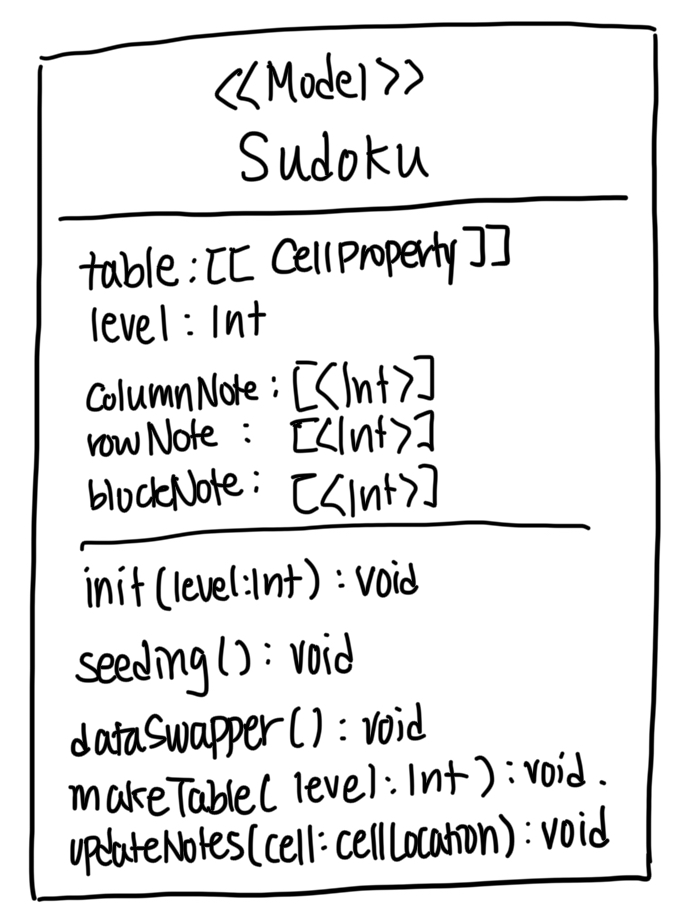
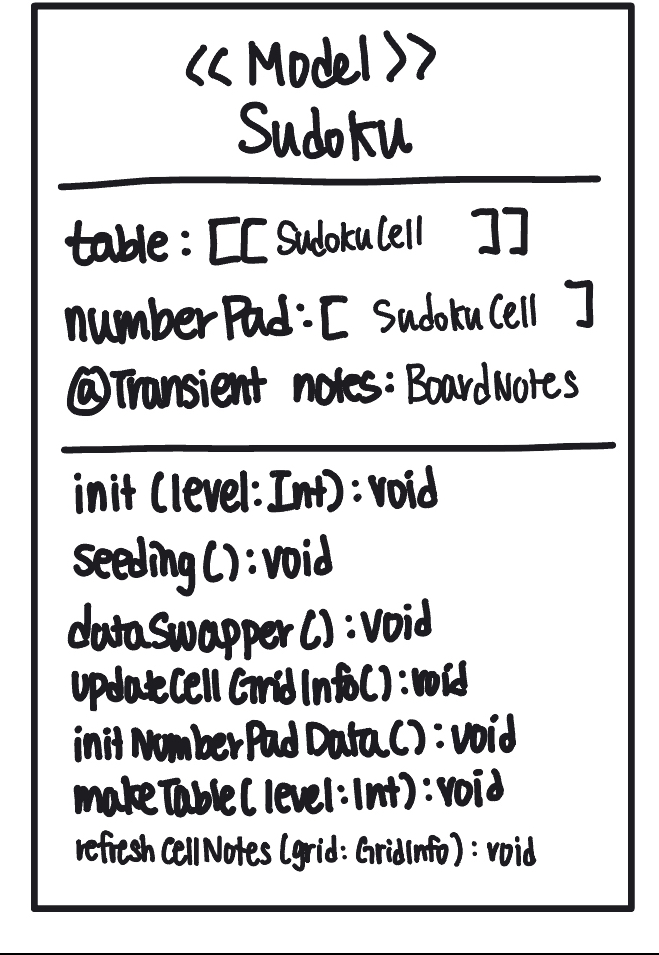
doc: Updated in-line documentation for BoardNotes, Sudoku, and SudokucCell. Updated UI document for UML with pictures and descriptions

Changed region(s): [[0.0303, 0.0, 0.9712, 1.0], [0.8498, 0.2733, 0.9105, 0.3644]]

diff --git a/Sudoku/Model/Sudoku.swift b/Sudoku/Model/Sudoku.swift
@@ -13,6 +13,8 @@ import SwiftData
 ///     - board: a GridInfo of the selected cell's position on the 9×9 board (row, col)
 ///     - block: a GridInfo of the selected cell's position inside its 3×3 block (blockRow, blockCol)
 ///     - cell: a GridInfo of the selected cell's position inside its 3×3 block cell (0...2, 0...2)
+/// - Methods:
+///     - `init()` : set each parameter to its respective `GridInfo`
 struct CellPosition: Codable {
     var board: GridInfo
     var block: GridInfo
@@ -25,33 +27,31 @@ struct CellPosition: Codable {
     }
 }
 
-/// A matrix of CellProperties conforming to data on a sudoku board
+/// A matrix of SudokuCell conforming to data on a sudoku board
 /// - Parameters:
-///     - table: a 9x9 matrix of CellProperties.
+///     - table: a 9x9 matrix of SudokuCell.
 struct Data {
     var table: [[SudokuCell]]
 }
 
 /// A SwiftData model representing a Sudoku puzzle.
 /// - Parameters:
-///     - table: Array variable containing a 9x9 matrix of CellProperty equal to 0.
-///     - numberPad: Array of CellProperty length 9
-///     - level: initial integer set to 0, will change as levels change
-///     - colNote: An array containing sets of integers with length 9
-///     - rowNote: An array containing sets of integers with length 9
-///     - blockNote: An array containing sets of integers with length 9
+///     - notes(@Transient): `BoardNotes` type initialized to 9 empty sets.
+///     - table: a 9x9 matrix of `SudokuCell`s creating the table
+///     - numberPad: an array of `SudokuCell`s creating the number pad.
 ///
 /// - Methods:
-///     - `init()`: calls seeding(), dataSwapper(), updateCellGridInfo(), makeTable(), and print table
+///     - `init()`: calls seeding(), dataSwapper(), updateCellGridInfo(), makeTable(),
+///        print table, and initNumberPad().
 ///     -  `seeding()` — builds a fully solved 9×9 grid by shuffling digits and laying them out with a
 ///        base pattern.
-///     - `dataSwapper()` — randomizes the solved grid by swapping rows within bands and columns within
-///        stacks while preserving validity.
-///     - `updateCellGridInfo()` — writes board/block/cell coordinates into each `CellProperty.position`.
-///     - `makeTable(level:)` — hides a fixed number of cells (currently 30) to produce a playable
+///     - `dataSwapper()` — randomizes the solved grid by swapping rows within bands and columns
+///        within stacks while preserving validity.
+///     - `updateCellGridInfo()` — writes board/block/cell coordinates into each `GridInfo`.
+///     - `makeTable(level:Int)` — hides a fixed number of cells based on level  to produce a playable
 ///        puzzle and derives initial notes.
-///     -  `print(table)` — dumps the backing 2D array for debugging.
 ///     - `initNumberPadData()` — populates the keypad model with values 1…9.
+///     - `refreshCellNotes(grid:GridInfo)` — reevalutates note values after actions.
 @Model
 class Sudoku {
     @Transient
@@ -93,7 +93,6 @@ class Sudoku {
     ///     - First, shuffle dice.
     ///     - Second, create a 9x9 table with 0s
     ///     - Third, fill out each row with valueIndex as calculated below
-    ///     - Fourth, randomize rows and columns with sudokuDataSwapper
     func seeding() {
         var seed: Int = 0
         var dice: [Int] = [1, 2, 3, 4, 5, 6, 7, 8, 9]
@@ -145,7 +144,7 @@ class Sudoku {
 
     }
 
-    /// Function that computes and assigns board, block, and in-block cell coordinates for every cell.
+    /// Function that computes and assigns board, block, and cell coordinates for every cell.
     ///  - Logic:
     ///     - For every cell, update the GridInfo.
     ///         - For board, just update row and column
@@ -195,8 +194,14 @@ class Sudoku {
         }
     }
 
-    /// Function that removes a certain nuber of entries
-    ///
+    /// Functiont that turns visibility off for random cells and updates and refreshes notes
+    /// according to that visibility.
+    ///  - Parameters:
+    ///     - level: an integer corresponding to the number of blank cells
+    ///     according to each level.
+    ///  - Logic:
+    ///     - Randomly decides on a row and column and turns off visibility for
+    ///     that cell. Updates and refreshes notes according to this.
     func makeTable(level: Int) {
         var noteCounter = level
 
@@ -215,6 +220,13 @@ class Sudoku {
         }
     }
 
+    /// Function that refreshes each and every cell note according to updates on BoardNotes
+    /// and SudokuCell's notes update.
+    /// - Parameters:
+    ///     - grid: A GridInfo that provides the function with the cell's row and column info
+    /// - Logic:
+    ///     - Calculate block's location, then use `SudokuCell`'s `updateNote()` function
+    ///     to refresh and reprint each cell note.
     func refreshCellNotes(grid: GridInfo) {
         let row = grid.row
         let col = grid.col
@@ -223,15 +235,17 @@ class Sudoku {
         let blockCol = ((col / 3) * 3)
 
         for index in 0...8 {
+            // updating each cell's note in its column
             table[index][col].updateNote(
                 boardNotes: notes,
                 isVisible: table[index][col].visible
             )
+            // updating each cell's note in its row
             table[row][index].updateNote(
                 boardNotes: notes,
                 isVisible: table[row][index].visible
             )
-
+            // updating each cell's note in its block
             table[blockRow + (index / 3)][blockCol + (index % 3)]
                 .updateNote(
                     boardNotes: notes,

diff --git a/Sudoku/Model/SudokuCell.swift b/Sudoku/Model/SudokuCell.swift
@@ -17,21 +17,21 @@ struct GridInfo: Codable {
     let col: Int
 }
 
-/// All the properties of a cell.
+/// All the properties of a cell as well as updating its note.
 /// - Parameters:
-///     - position: CellPosition
-///     - visible: Boolean value conforming to showing the content of a cell
-///     - value: Integer value contained inside the cell
-///     - select: Boolean value conforming to if cell is selected or not
-///     - note: Set of integers containing all the numbers in a cell's note
+///     - value: the cell's own value, as an integer
+///     - visible: Boolean value for its visibility
+///     - position: CellPosition that represents its position on the board
+///     - note: A set of integers containing possible candidates for its cell
+///     if the visibility is off
+///     - select: Boolean value representing if the cell's selected or not
 /// - Methods:
-///     - `init()` : Sets parameters to
-///         - `position` =  A new CellPosition
-///         - `visible` = `true`
-///         - `value` = 0
-///         - `select` = `false`
-///         - `note` = Empty `set` of integers
-///     - `==` : compares rows' and columns' CellProperties to each other
+///     - `init()` : Sets its value to its own value
+///     - `selectCell()`: Automatically sets a cell's visbility to true when there's only one candidate
+///     left in the cell's note
+///     -`updateNote()`: shows the intersection of the cell's boardNotes if visibility is false for the cell's
+///     value, and empties the note if visibility is true.
+///     - `==` : compares rows' and columns' SudokuCells to each other
 class SudokuCell: Codable {
     var value: Int = 0
     var visible: Bool = true
@@ -43,12 +43,21 @@ class SudokuCell: Codable {
         self.value = value
     }
 
+    /// Funtion that automatically shows the value when there's only one candidate left in the cell's note.
     func selectCell() {
         if note.count == 1 {
             visible = true
         }
     }
 
+    /// Function that updates the cell's note according to the cell's visibility.
+    /// - Parameters:
+    ///     - boardNotes: A collection of all the invisible cell's value for its row, column, and block.
+    ///     - isVisible: Boolean representing if cell's value is visible or not
+    /// - Logic:
+    ///     - If the cell's visibiility is true, empty all values in the note if it is not empty.
+    ///     - If the cell's visibility is false, retrieve the intersection of all the row, column, and blocks'
+    ///     sets when none of the sets are empty.
     func updateNote(boardNotes: BoardNotes, isVisible: Bool) {
         let row = position.board.row
         let col = position.board.col

diff --git a/Sudoku/Model/BoardNotes.swift b/Sudoku/Model/BoardNotes.swift
@@ -7,6 +7,24 @@
 
 import Foundation
 
+/// Class that contains potential number candidates
+/// for the cell divided by column, row, and block.
+///
+/// - Parameters:
+///     - col: An array of sets of integers conforming to number
+///     candidates for a certain cell based on its column
+///     - row: An array of sets of integers conforming to number
+///     candidates for a certain cell based on its row
+///     - block: An array of sets of integers conforming to number
+///     candidates for a certain cell based on its block
+///
+/// - Methods:
+///     - `init(col: [Set<Int>], row: [Set<Int>], block: [Set<Int>])`
+///         - Parameters: col, row, block of type `[Set<Int>]`
+///         - Function: Sets each parameter to its respective array
+///     - `updateNotes(position: CellPosition, value:Int)`
+///         - Parameters: data of type `SudokuCell`
+///         - Function: Checks if cell is visible and update its notes accordingly.
 class BoardNotes: Codable {
     var col: [Set<Int>]
     var row: [Set<Int>]
@@ -17,7 +35,14 @@ class BoardNotes: Codable {
         self.row = row
         self.block = block
     }
-
+    /// Function for updating notes based on the cell's visibility.
+    /// - Parameters:
+    ///     - data: selected cell of type `SudokuCell`
+    /// - Logic:
+    ///     - If `data` is visible, remove its value from all
+    ///     of its row, column, and block `BoardNotes`.
+    ///     - If `data` is not visible, insert its value to all
+    ///     of its row, column, and block `BoardNotes`.
     func updateNotes(data: SudokuCell) {
         let position = data.position.board
 

diff --git a/Sudoku/Documentation.docc/UI Specification Document.md b/Sudoku/Documentation.docc/UI Specification Document.md
@@ -407,7 +407,7 @@ showScoreView: Boolean, default set to false
     - Parameters: to (temporaray string), duration: 3(TimeInterval)
     - Action: Set scoreText to temporary string, use DispatchQueue to asyncAfter duration (seconds) and change back to default("Score")
 
-![GameBoardView UML 8.2](UML_updated)
+![GameBoardView UML 8.2](UML_Overview)
 
 *(Fig. 8.2) Sudoku Board UML Design Overview*
 
@@ -420,56 +420,82 @@ showScoreView: Boolean, default set to false
 Sudoku(Class)
 - Wrapped by @Model class wrapper
 - Contains the following properties:
-    - `table: [[CellProperty]]`
-    - `level: Int`
-    - `columnNote: [<Int>]`
-    - `rowNote: [<Int>]`
-    - `blockNote: [<Int>]`
+    - `notes` (@Transient): `BoardNotes` - Initialized to 9 empty sets.
+    - `table: [[SudokuCell]]` - 9x9 matrix
+    - `numberPad: [SudokuCell]` - An array of 9 SudokuCells, creates number pad.
 - Contains the following methods:
-    - `init(level:Int): void`
-    - `seeding(): void`
-    - `dataSwapper(): void`
-    - `makeTable(level:Int): void`
-    - `updateNotes(cell:cellLocation): void`
+    - `init(level:Int): void` - calls seeding(), dataSwapper(), updateCellGridInfo(), makeTable(),
+    print table, and initNumberPad()
+    - `seeding(): void` - builds a fully solved 9x9 grid
+    - `dataSwapper(): void` - randomizes solved grid based on `seeding()` by swapping rows, columns,
+    and blocks.
+    - `updateCellGridInfo(): void` - input GridInfo for each cell
+    - `makeTable(level:Int): void` - hides a number of cells based on level to produce a puzzle
+    - `initNumberPadData(): void` - populates keyboard pad from values 1~9
+    - `refreshCellNotes(grid:GridInfo)` - reevaluates note values after actions
 
 ![GameBoardView UML 8.2.2](UML2)
-
-*(Fig. 8.2.2) CellLocation Struct UML Design*
-
-CellLocation(Struct)
-- Contains the following properties:
-    - `board: Grid`
-    - `block: Grid`
-    - `cell: Grid`
-
-![GameBoardView UML 8.2.3](UML3)
-
-*(Fig. 8.2.2) CellProperty Struct UML Design*
-
-CellProperty(Struct)
-- Contains the following properties:
-    - `location: CellLocation`
-    - `visible: Bool`
-    - `value: Int`
-    - `select: Bool`
-    - `note: <Int>`
-
-![GameBoardView UML 8.2.4](UML4)
-
-*(Fig. 8.2.2) Grid Struct UML Design*
-
-Grid(Struct)
-- Contains the following properties:
-    - `row: Int`
-    - `column: Int`
-
-![GameBoardView UML 8.2.5](UML5)
 
 *(Fig. 8.2.2) Data Struct UML Design*
 
 Data(Struct)
 - Contains the following properties:
-    - `table: [[CellProperty]]`
+    - `table: [[SudokuCell]]`
+
+![GameBoardView UML 8.2.3](UML3)
+
+*(Fig. 8.2.3) GridInfo Struct UML Design*
+
+GridInfo(Struct)
+- Contains the following properties:
+    - `row: Int`
+    - `column: Int`
+
+![GameBoardView UML 8.2.4](UML4)
+
+*(Fig. 8.2.4) CellPosition Struct UML Design*
+
+CellPosition(Struct)
+- Contains the following properties:
+    - `board: Grid`
+    - `block: Grid`
+    - `cell: Grid`
+- Contains the following methods:
+    - `init(): void` - sets board, block, cell's GridInfo to 0
+
+![GameBoardView UML 8.2.5](UML5)
+
+*(Fig. 8.2.5) Data Struct UML Design*
+
+BoardNotes(Class)
+- Contains the following properties:
+    - `column: [Set<Int>]`
+    - `row: [Set<Int>]`
+    - `block: [Set<Int>]`
+- Contains the following methods:
+    - `init(col:[Set<Int>], row: [Set<Int>], block: [Set<Int>]): void` - sets column,
+    row, and block to its respective array
+    - `updateNotes(position: CellPosition, value: Int): void` - checks if cell is visible
+    and update its notes accordingly
+
+![GameBoardView UML 8.2.6](UML6)
+
+*(Fig. 8.2.6) SudokuCell Class UML Design*
+
+SudokuCell(Class)
+- Contains the following properties:
+    - `value: Int`
+    - `visible: Bool`
+    - `position: CellPosition`
+    - `select: Bool`
+    - `note: Set<Int>`
+- Contains the following methods:
+    - `init(value:Int): void` - sets value
+    - `selectCell(): void` - sets a cell's visibility to true when there's only one candidate
+    left in the cell's note
+    - `updateNote(boardNotes: BoardNotes, isVisible:Bool): void` - shows intersection of 
+    the cell's boardNotes if visibility is false, empties note if visibility is true
+    - `==` - compares rows' and columns' SudokuCells to each other
 
 ## [UUID-010] SolverView detail
 
